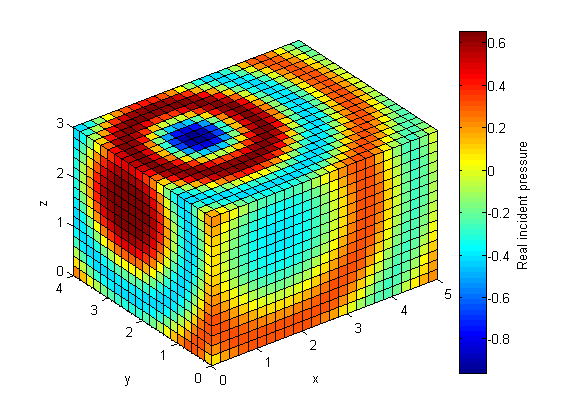
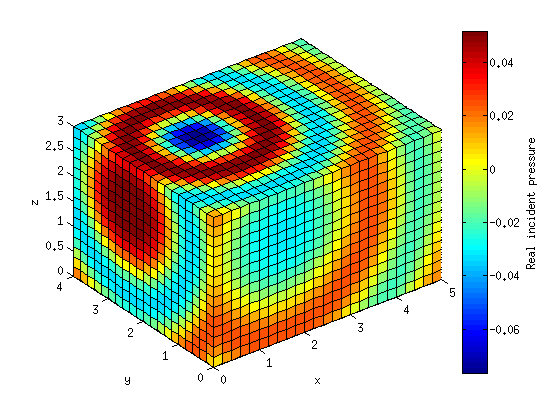
small fixes

diff --git a/nihudemos/html/room_scat_neum.html b/nihudemos/html/room_scat_neum.html
@@ -1,93 +1,61 @@
 
 <!DOCTYPE html
   PUBLIC "-//W3C//DTD HTML 4.01 Transitional//EN">
-<html>
-   <head>
+<html><head>
       <meta http-equiv="Content-Type" content="text/html; charset=utf-8">
-   
-      <!--
-This HTML is auto-generated from an M-file.
-To make changes, update the M-file and republish this document.
-      -->
-      <title>Neumann interior scattering problem</title>
-      <meta name="generator" content="MATLAB 7.8">
-      <meta name="date" content="2009-11-10">
-      <meta name="m-file" content="room_scat_neum"><style type="text/css">
+   <!--
+This HTML was auto-generated from MATLAB code.
+To make changes, update the MATLAB code and republish this document.
+      --><title>Neumann interior scattering problem</title><meta name="generator" content="MATLAB 7.14"><link rel="schema.DC" href="http://purl.org/dc/elements/1.1/"><meta name="DC.date" content="2012-06-07"><meta name="DC.source" content="room_scat_neum.m"><style type="text/css">
+html,body,div,span,applet,object,iframe,h1,h2,h3,h4,h5,h6,p,blockquote,pre,a,abbr,acronym,address,big,cite,code,del,dfn,em,font,img,ins,kbd,q,s,samp,small,strike,strong,sub,sup,tt,var,b,u,i,center,dl,dt,dd,ol,ul,li,fieldset,form,label,legend,table,caption,tbody,tfoot,thead,tr,th,td{margin:0;padding:0;border:0;outline:0;font-size:100%;vertical-align:baseline;background:transparent}body{line-height:1}ol,ul{list-style:none}blockquote,q{quotes:none}blockquote:before,blockquote:after,q:before,q:after{content:'';content:none}:focus{outine:0}ins{text-decoration:none}del{text-decoration:line-through}table{border-collapse:collapse;border-spacing:0}
 
-body {
-  background-color: white;
-  margin:10px;
-}
+html { min-height:100%; margin-bottom:1px; }
+html body { height:100%; margin:0px; font-family:Arial, Helvetica, sans-serif; font-size:10px; color:#000; line-height:140%; background:#fff none; overflow-y:scroll; }
+html body td { vertical-align:top; text-align:left; }
 
-h1 {
-  color: #990000; 
-  font-size: x-large;
-}
+h1 { padding:0px; margin:0px 0px 25px; font-family:Arial, Helvetica, sans-serif; font-size:1.5em; color:#d55000; line-height:100%; font-weight:normal; }
+h2 { padding:0px; margin:0px 0px 8px; font-family:Arial, Helvetica, sans-serif; font-size:1.2em; color:#000; font-weight:bold; line-height:140%; border-bottom:1px solid #d6d4d4; display:block; }
+h3 { padding:0px; margin:0px 0px 5px; font-family:Arial, Helvetica, sans-serif; font-size:1.1em; color:#000; font-weight:bold; line-height:140%; }
 
-h2 {
-  color: #990000;
-  font-size: medium;
-}
+a { color:#005fce; text-decoration:none; }
+a:hover { color:#005fce; text-decoration:underline; }
+a:visited { color:#004aa0; text-decoration:none; }
 
-/* Make the text shrink to fit narrow windows, but not stretch too far in 
-wide windows. */ 
-p,h1,h2,div.content div {
-  max-width: 600px;
-  /* Hack for IE6 */
-  width: auto !important; width: 600px;
-}
+p { padding:0px; margin:0px 0px 20px; }
+img { padding:0px; margin:0px 0px 20px; border:none; }
+p img, pre img, tt img, li img { margin-bottom:0px; } 
 
-pre.codeinput {
-  background: #EEEEEE;
-  padding: 10px;
-}
-@media print {
-  pre.codeinput {word-wrap:break-word; width:100%;}
-} 
+ul { padding:0px; margin:0px 0px 20px 23px; list-style:square; }
+ul li { padding:0px; margin:0px 0px 7px 0px; }
+ul li ul { padding:5px 0px 0px; margin:0px 0px 7px 23px; }
+ul li ol li { list-style:decimal; }
+ol { padding:0px; margin:0px 0px 20px 0px; list-style:decimal; }
+ol li { padding:0px; margin:0px 0px 7px 23px; list-style-type:decimal; }
+ol li ol { padding:5px 0px 0px; margin:0px 0px 7px 0px; }
+ol li ol li { list-style-type:lower-alpha; }
+ol li ul { padding-top:7px; }
+ol li ul li { list-style:square; }
 
-span.keyword {color: #0000FF}
-span.comment {color: #228B22}
-span.string {color: #A020F0}
-span.untermstring {color: #B20000}
-span.syscmd {color: #B28C00}
+.content { font-size:1.2em; line-height:140%; padding: 20px; }
 
-pre.codeoutput {
-  color: #666666;
-  padding: 10px;
-}
+pre, tt, code { font-size:12px; }
+pre { margin:0px 0px 20px; }
+pre.error { color:red; }
+pre.codeinput { padding:10px; border:1px solid #d3d3d3; background:#f7f7f7; }
+pre.codeoutput { padding:10px 11px; margin:0px 0px 20px; color:#4c4c4c; }
 
-pre.error {
-  color: red;
-}
+@media print { pre.codeinput, pre.codeoutput { word-wrap:break-word; width:100%; } }
 
-p.footer {
-  text-align: right;
-  font-size: xx-small;
-  font-weight: lighter;
-  font-style: italic;
-  color: gray;
-}
+span.keyword { color:#0000FF }
+span.comment { color:#228B22 }
+span.string { color:#A020F0 }
+span.untermstring { color:#B20000 }
+span.syscmd { color:#B28C00 }
 
-  </style></head>
-   <body>
-      <div class="content">
-         <h1>Neumann interior scattering problem</h1>
-         <!--introduction-->
-         <p>This tutorial introduces how to use the toolbox <tt>NIHU</tt> to solve a simple interior acoustic scattering problem.
-         </p>
-         <p>The problem is scattering of an incident monopole wave field from the rigid walls of a shoe-box shaped room.</p>
-         <!--/introduction-->
-         <h2>Contents</h2>
-         <div>
-            <ul>
-               <li><a href="#1">Surface and field point mesh</a></li>
-               <li><a href="#5">Incident wave field</a></li>
-               <li><a href="#7">BEM matrices and solution</a></li>
-               <li><a href="#8">Field point pressure and total pressure field (post processing)</a></li>
-            </ul>
-         </div>
-         <h2>Surface and field point mesh<a name="1"></a></h2>
-         <p>Generate a brick surface with given side lengths and division parameter.</p><pre class="codeinput">L = [5 4 3];    <span class="comment">% dimensions of the room [x y z]</span>
+.footer { width:auto; padding:10px 0px; margin:25px 0px 0px; border-top:1px dotted #878787; font-size:0.8em; line-height:140%; font-style:italic; color:#878787; text-align:left; float:none; }
+.footer p { margin:0px; }
+
+  </style></head><body><div class="content"><h1>Neumann interior scattering problem</h1><!--introduction--><p>This tutorial introduces how to use the toolbox <tt>NIHU</tt> to solve a simple interior acoustic scattering problem.</p><p>The problem is scattering of an incident monopole wave field from the rigid walls of a shoe-box shaped room.</p><!--/introduction--><h2>Contents</h2><div><ul><li><a href="#1">Surface and field point mesh</a></li><li><a href="#5">Incident wave field</a></li><li><a href="#7">BEM matrices and solution</a></li><li><a href="#8">Field point pressure and total pressure field (post processing)</a></li></ul></div><h2>Surface and field point mesh<a name="1"></a></h2><p>Generate a brick surface with given side lengths and division parameter.</p><pre class="codeinput">L = [5 4 3];    <span class="comment">% dimensions of the room [x y z]</span>
 Le = .2;        <span class="comment">% lengt of boundary elements</span>
 N = ceil(L/Le); <span class="comment">% division parameter</span>
 mesh = create_brick_boundary(L, N);
@@ -114,12 +82,7 @@ field = join_meshes(field1, field2, field3);
 
 figure;
 plot_mesh(field); view(3);
-</pre><img vspace="5" hspace="5" src="room_scat_neum_03.png" alt=""> <h2>Incident wave field<a name="5"></a></h2>
-         <p>The incident wave field is the field of a monopole source located inside the room. The incident pressure field <img src="room_scat_neum_eq83153.png" alt="$p_{si}$"> and pressure derivative field <img src="room_scat_neum_eq63720.png" alt="$q_{si}$"> is computed in all surface DOF. In the present example, constant boundary elements are used, and the DOF locations are the
-            element centers. The element centers and normals are obtained from the toolbox function <tt>centnorm</tt>, and the toolbox function <tt>incident</tt> computes the incident surface pressure and velocity field. For visualization purposes, the incident pressure field is computed
-            in the field points (vertices of the field point mesh).
-         </p>
-         <p>The frequency is determined from the element length</p><pre class="codeinput">ratio = 7;                  <span class="comment">% elements per wavelength</span>
+</pre><img vspace="5" hspace="5" src="room_scat_neum_03.png" alt=""> <h2>Incident wave field<a name="5"></a></h2><p>The incident wave field is the field of a monopole source located inside the room. The incident pressure field <img src="room_scat_neum_eq83153.png" alt="$p_{si}$"> and pressure derivative field <img src="room_scat_neum_eq63720.png" alt="$q_{si}$"> is computed in all surface DOF. In the present example, constant boundary elements are used, and the DOF locations are the element centers. The element centers and normals are obtained from the toolbox function <tt>centnorm</tt>, and the toolbox function <tt>incident</tt> computes the incident surface pressure and velocity field. For visualization purposes, the incident pressure field is computed in the field points (vertices of the field point mesh).</p><p>The frequency is determined from the element length</p><pre class="codeinput">ratio = 7;                  <span class="comment">% elements per wavelength</span>
 k = .9 * 2*pi/(ratio * Le); <span class="comment">% wave number</span>
 
 r0 = [.3 .6 .7] * diag(L);  <span class="comment">% monople source location</span>
@@ -139,25 +102,12 @@ figure;
 plot_mesh(field, real(pfi)); shading <span class="string">interp</span>;
 c = colorbar; ylabel(c, <span class="string">'Real incident pressure'</span>);
 view(3);
-</pre><img vspace="5" hspace="5" src="room_scat_neum_04.png" alt=""> <img vspace="5" hspace="5" src="room_scat_neum_05.png" alt=""> <h2>BEM matrices and solution<a name="7"></a></h2>
-         <p>The BEM system matrices are generated by the toolbox function <tt>bemHG</tt>. The system of equations
-         </p>
-         <p><img src="room_scat_neum_eq97481.png" alt="$$ {\bf H} {\bf p}_{ss} = {\bf G} {\bf q}_{ss} $$"></p>
-         <p>is solved by matrix inversion. As a rigid scatterer is considered, the scattered velocity field is computed from the incident
-            velocity as
-         </p>
-         <p><img src="room_scat_neum_eq69915.png" alt="$$q_{ss} = -q_{si} $$"></p><pre class="codeinput">[H, G] = bemHG(mesh, k, <span class="string">'const'</span>);   <span class="comment">% Generate BEM matrices</span>
+</pre><img vspace="5" hspace="5" src="room_scat_neum_04.png" alt=""> <img vspace="5" hspace="5" src="room_scat_neum_05.png" alt=""> <h2>BEM matrices and solution<a name="7"></a></h2><p>The BEM system matrices are generated by the toolbox function <tt>bemHG</tt>. The system of equations</p><p><img src="room_scat_neum_eq55736.png" alt="$$  \left({\bf H} - \frac{1}{2} {\bf I} \right) {\bf p}_{ss} = {\bf G} {\bf q}_{ss} $$"></p><p>is solved by matrix inversion. As a rigid scatterer is considered, the scattered velocity field is computed from the incident velocity as</p><p><img src="room_scat_neum_eq69915.png" alt="$$q_{ss} = -q_{si} $$"></p><pre class="codeinput">[H, G] = bemHG(mesh, k, <span class="string">'const'</span>);   <span class="comment">% Generate BEM matrices</span>
 qss = -qsi;                         <span class="comment">% Boundary cond. at a rigid boundary</span>
-pss = H \ (G * qss);                <span class="comment">% solve the system</span>
-</pre><h2>Field point pressure and total pressure field (post processing)<a name="8"></a></h2>
-         <p>The scattered field point pressure <img src="room_scat_neum_eq23573.png" alt="$p_{fs}$"> is computed from the scattered surface pressure <img src="room_scat_neum_eq98987.png" alt="$p_{ss}$"> and velocity <img src="room_scat_neum_eq32815.png" alt="$q_{ss}$"> as
-         </p>
-         <p><img src="room_scat_neum_eq65989.png" alt="$${\bf p}_{fs} = \frac{1}{4\pi} ({\bf H} {\bf p}_{ss} - {\bf G} {\bf q}_{ss})$$"></p>
-         <p>where the system matrices are computed by the toolbox function <tt>bemHG</tt>.
-         </p><pre class="codeinput">[H, G] = bemHG(mesh, k, <span class="string">'const'</span>, points);
-pfs = (H * pss - G * qss) / (4*pi);
-</pre><p>The total pressure field in the field points and on the surface is computed as</p>
-         <p><img src="room_scat_neum_eq33402.png" alt="$$ p_t = p_i + p_s $$"></p><pre class="codeinput">pst = psi + pss;
+pss = (H-.5*eye(size(H))) \ (G * qss);    <span class="comment">% solve the system</span>
+</pre><h2>Field point pressure and total pressure field (post processing)<a name="8"></a></h2><p>The scattered field point pressure <img src="room_scat_neum_eq23573.png" alt="$p_{fs}$"> is computed from the scattered surface pressure <img src="room_scat_neum_eq98987.png" alt="$p_{ss}$"> and velocity <img src="room_scat_neum_eq32815.png" alt="$q_{ss}$"> as</p><p><img src="room_scat_neum_eq40794.png" alt="$${\bf p}_{fs} = {\bf H} {\bf p}_{ss} - {\bf G} {\bf q}_{ss}$$"></p><p>where the system matrices are computed by the toolbox function <tt>bemHG</tt>.</p><pre class="codeinput">[H, G] = bemHG(mesh, k, <span class="string">'const'</span>, points);
+pfs = H * pss - G * qss;
+</pre><p>The total pressure field in the field points and on the surface is computed as</p><p><img src="room_scat_neum_eq33402.png" alt="$$ p_t = p_i + p_s $$"></p><pre class="codeinput">pst = psi + pss;
 pft = pfi + pfs;
 
 figure;
@@ -170,9 +120,7 @@ plot_mesh(field, real(pft)); shading <span class="string">interp</span>;
 c = colorbar; ylabel(c, <span class="string">'Real pressure'</span>);
 view(3);
 </pre><img vspace="5" hspace="5" src="room_scat_neum_06.png" alt=""> <img vspace="5" hspace="5" src="room_scat_neum_07.png" alt=""> <p class="footer"><br>
-            Published with MATLAB&reg; 7.8<br></p>
-      </div>
-      <!--
+      Published with MATLAB&reg; 7.14<br></p></div><!--
 ##### SOURCE BEGIN #####
 %% Neumann interior scattering problem
 % This tutorial introduces how to use the toolbox |NIHU| to solve a simple
@@ -263,7 +211,7 @@ view(3);
 % The BEM system matrices are generated by the toolbox function |bemHG|.
 % The system of equations
 %
-% $$ {\bf H} {\bf p}_{ss} = {\bf G} {\bf q}_{ss} $$
+% $$  \left({\bf H} - \frac{1}{2} {\bf I} \right) {\bf p}_{ss} = {\bf G} {\bf q}_{ss} $$
 %
 % is solved by matrix inversion. As a rigid scatterer is considered, the
 % scattered velocity field is computed from the incident velocity as
@@ -272,17 +220,17 @@ view(3);
 %
 [H, G] = bemHG(mesh, k, 'const');   % Generate BEM matrices
 qss = -qsi;                         % Boundary cond. at a rigid boundary
-pss = H \ (G * qss);                % solve the system
+pss = (H-.5*eye(size(H))) \ (G * qss);    % solve the system
 
 %% Field point pressure and total pressure field (post processing)
 % The scattered field point pressure $p_{fs}$ is computed from the
 % scattered surface pressure $p_{ss}$ and velocity $q_{ss}$ as
 % 
-% $${\bf p}_{fs} = \frac{1}{4\pi} ({\bf H} {\bf p}_{ss} - {\bf G} {\bf q}_{ss})$$
+% $${\bf p}_{fs} = {\bf H} {\bf p}_{ss} - {\bf G} {\bf q}_{ss}$$
 % 
 % where the system matrices are computed by the toolbox function |bemHG|.
 [H, G] = bemHG(mesh, k, 'const', points);
-pfs = (H * pss - G * qss) / (4*pi);
+pfs = H * pss - G * qss;
 
 %%
 % The total pressure field in the field points and on the surface is
@@ -303,6 +251,4 @@ plot_mesh(field, real(pft)); shading interp;
 c = colorbar; ylabel(c, 'Real pressure');
 view(3);
 ##### SOURCE END #####
--->
-   </body>
-</html>
+--></body></html>

diff --git a/nihudemos/room_scat_neum.m b/nihudemos/room_scat_neum.m
@@ -87,7 +87,7 @@ view(3);
 % The BEM system matrices are generated by the toolbox function |bemHG|.
 % The system of equations
 %
-% $$ {\bf H} {\bf p}_{ss} = {\bf G} {\bf q}_{ss} $$
+% $$  \left({\bf H} - \frac{1}{2} {\bf I} \right) {\bf p}_{ss} = {\bf G} {\bf q}_{ss} $$
 %
 % is solved by matrix inversion. As a rigid scatterer is considered, the
 % scattered velocity field is computed from the incident velocity as
@@ -96,17 +96,17 @@ view(3);
 %
 [H, G] = bemHG(mesh, k, 'const');   % Generate BEM matrices
 qss = -qsi;                         % Boundary cond. at a rigid boundary
-pss = H \ (G * qss);                % solve the system
+pss = (H-.5*eye(size(H))) \ (G * qss);    % solve the system
 
 %% Field point pressure and total pressure field (post processing)
 % The scattered field point pressure $p_{fs}$ is computed from the
 % scattered surface pressure $p_{ss}$ and velocity $q_{ss}$ as
 % 
-% $${\bf p}_{fs} = \frac{1}{4\pi} ({\bf H} {\bf p}_{ss} - {\bf G} {\bf q}_{ss})$$
+% $${\bf p}_{fs} = {\bf H} {\bf p}_{ss} - {\bf G} {\bf q}_{ss}$$
 % 
 % where the system matrices are computed by the toolbox function |bemHG|.
 [H, G] = bemHG(mesh, k, 'const', points);
-pfs = (H * pss - G * qss) / (4*pi);
+pfs = H * pss - G * qss;
 
 %%
 % The total pressure field in the field points and on the surface is

diff --git a/test/symmetric_postprocess.m b/test/symmetric_postprocess.m
@@ -18,13 +18,13 @@ r0 = shift + [0 0 Z]; % source location
 %% mesh
 % radiator surface
 Le = 2*pi/k/ratio;
-sphere = create_sphere_boundary(R, round(R/Le));
-sphere = translate_mesh(sphere, [0 0 Z]);
-% field point mesh
+singlesphere = translate_mesh(create_sphere_boundary(R, round(R/Le)), [0 0 Z]);
+doublesphere = join_meshes(singlesphere, reflect_mesh(singlesphere, [0 0 0], [0 0 1]));
+
+%% field point mesh
 field = create_slab(L, round(L/Le));
 field = translate_mesh(rotate_mesh(translate_mesh(field, [D 0 0]), [0 0 0], [1 0 0], pi/2), [0 0 Z]);
 % reflect sphere to z = 0 plane
-sphere2 = join_meshes(sphere, reflect_mesh(sphere, [0 0 0], [0 0 1]));
 
 %% compute incident wave field
 T = diag([1 1 -1]);

diff --git a/bem/fm_postproc.m b/bem/fm_postproc.m
@@ -8,8 +8,7 @@ if nargin < 9
     C = 4;
 end
 if nargin < 8
-    mod = join_meshes(model, field);
-    D = norm(max(mod.Nodes(:,2:4),[],1) - min(mod.Nodes(:,2:4),[],1));
+    D = norm(diff(boundingbox(join_meshes(model, field))));
     depth = round(log2(k*D/pi));
 end
 if nargin < 7

diff --git a/bem/mex_source/fmbem.c b/bem/mex_source/fmbem.c
@@ -27,7 +27,7 @@ void leafGq(int nnod,
     {
         /* father cluster index */
         f = (int)father[j];
-        /* for each	direction (s) */
+        /* for each direction (s) */
         for (p = 0; p < ns; p++)
         {
             /* F = q * exp(-i*k*d*s) */
